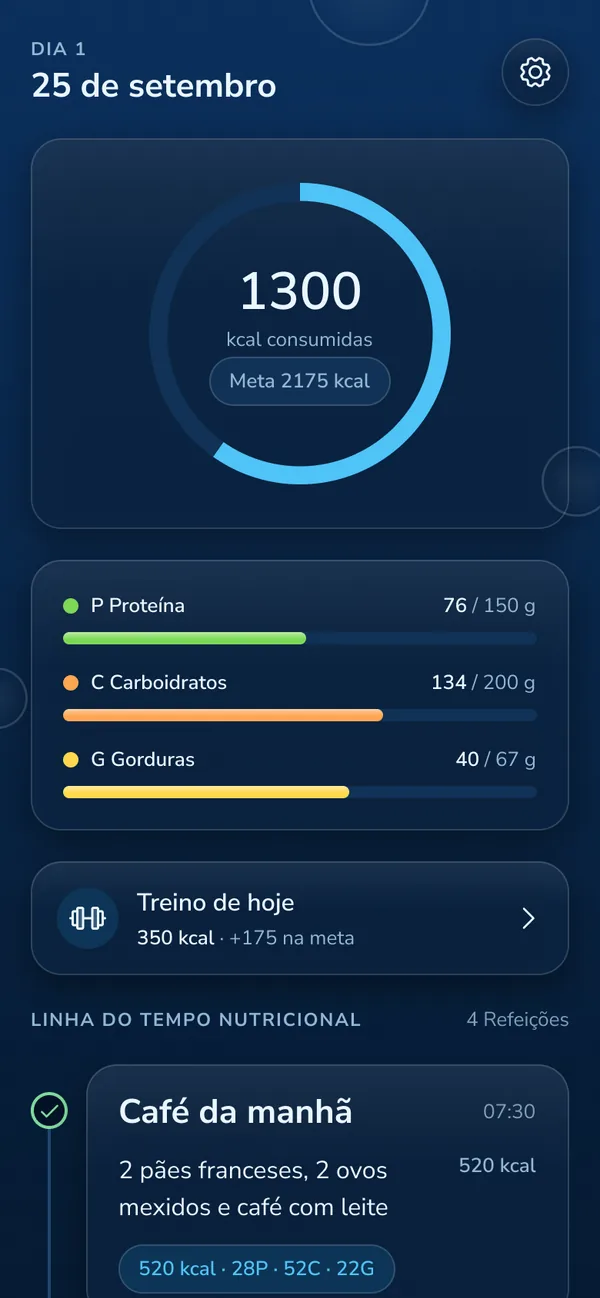
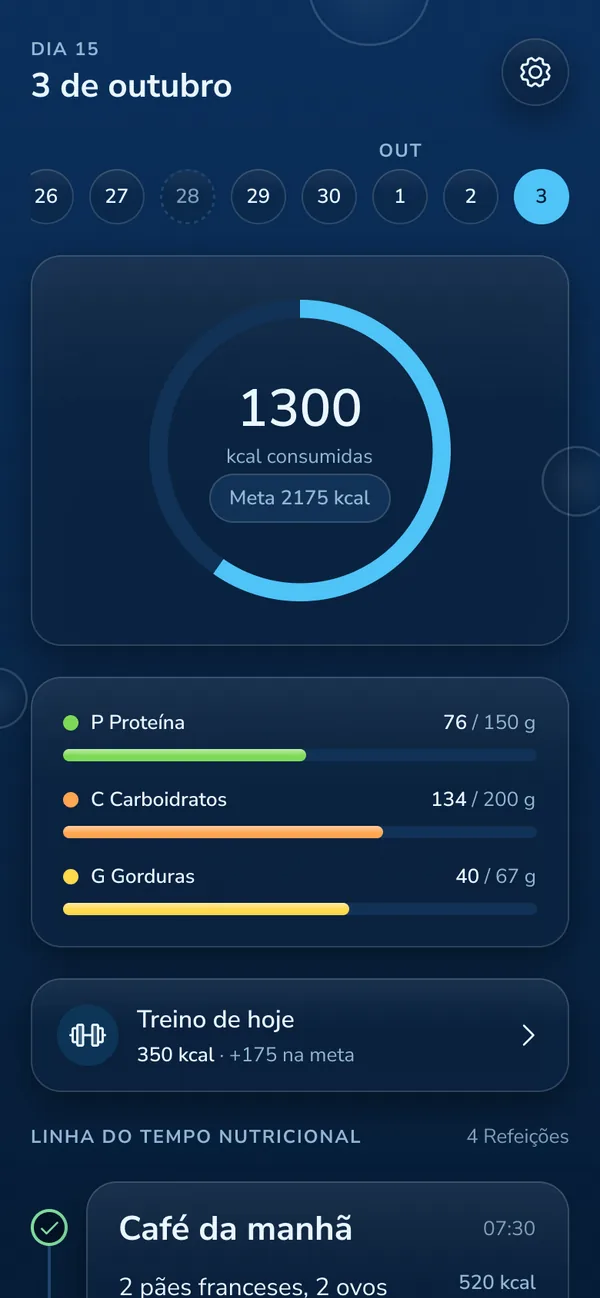
feat(web): W3 landing phones cut from ob3, the D28 home1 and chatE
The retired o1 screen leaves the landing: build-screens cuts ob3 (profile
summary) instead, home1 is re-cut after D28, o1.webp is removed and the
left phone gets its alt text. web check and the capture gate pass against
the D29 golds (land 0.93/0.47 %, landM 0.51/0.48 %, priv 0.02/0.00 %).

diff --git a/web/public/index.html b/web/public/index.html
@@ -65,8 +65,8 @@
 
       <figure class="phones" aria-label="Telas do app Fibrai">
         <div class="phone phone--side">
-          <img class="only-light" src="/img/screens/light/o1.webp" width="600" height="1298" loading="lazy" alt="Tela de início do Fibrai: definir o teto de calorias do dia">
-          <img class="only-dark" src="/img/screens/dark/o1.webp" width="600" height="1298" loading="lazy" alt="Tela de início do Fibrai: definir o teto de calorias do dia">
+          <img class="only-light" src="/img/screens/light/ob3.webp" width="600" height="1298" loading="lazy" alt="Resumo do perfil no Fibrai: teto de calorias, macros, refeições e treino">
+          <img class="only-dark" src="/img/screens/dark/ob3.webp" width="600" height="1298" loading="lazy" alt="Resumo do perfil no Fibrai: teto de calorias, macros, refeições e treino">
         </div>
         <div class="phone">
           <img class="only-light" src="/img/screens/light/home1.webp" width="600" height="1298" alt="Tela Home do Fibrai com as calorias do dia, os macros e a linha do tempo das refeições">

diff --git a/docs/site/plans/completed/w3-landing-screens-after-onboarding.md b/docs/site/plans/completed/w3-landing-screens-after-onboarding.md
@@ -1,0 +1,117 @@
+# Plan — W3 Landing phone screens after the conversational onboarding
+
+- Status: Concluído
+- Date: 09/10/2026
+- Owning context: `site`
+- Executable boundary:
+  - `web/tools/build-screens.mjs` (the `SCREENS` list and its header comment);
+  - `web/public/index.html` (the left phone: image paths and alt text);
+  - `web/public/img/screens/{light,dark}/` (generated: `ob3.webp` added, `home1.webp` re-cut, `o1.webp` removed);
+  - captures in `docs/qa/site/current/{light,dark}/{land,landM,priv}.png`;
+  - at Completion, the [site README](../../README.md) line on the generated screens and the [design plans index](../../../design/plans/README.md).
+  - No change to `web/public/css/`, the page copy, `apps/`, `server/`, `docs/qa/figma/` or hosting ([W2](../w2-landing-hosting.md)).
+- Related documentation: [site README](../../README.md), [ADR-037](../../adrs/ADR-037-landing-site.md), [W1](w1-landing-site.md) (§ 6, the screen cut), [D11](../../../design/plans/completed/d11-landing-page.md), [ADR-057](../../../produto/adrs/ADR-057-conversational-onboarding.md), [ADR-058](../../../produto/adrs/ADR-058-extras-and-history.md), the [run report of D27 and D28](../../../design/validation/2026-10-09-d27-d28.md) (follow-up 2), the [gold inventory](../../../qa/README.md#golds), [production gate](../../../content-policy/production-gate.md).
+- Prerequisites:
+  - [D27](../../../design/plans/completed/d27-conversational-onboarding.md) and [D28](../../../design/plans/completed/d28-home-extras-and-history.md) `Concluído` (met);
+  - [D29](../../../design/plans/completed/d29-landing-phone-screens.md) `Concluído`: the golds `land` and `landM` show `ob3` and the D28 `home1` in their phones.
+
+Authorization and delivery follow [SDD](../../../sdd/README.md). Approval: `Aprovo o plano docs/site/plans/w3-landing-screens-after-onboarding.md. Implemente o plano aprovado.`
+
+## Problem
+
+`web/tools/build-screens.mjs` cuts the landing phones from the app golds `o1`, `home1` and `chatE`. On 09/10/2026:
+
+| Screen | Gold | Cut WebP in `web/public/img/screens/` | `screens:check` |
+|---|---|---|---|
+| `o1` | retired by D27 (PNGs in `docs/qa/_legacy/figma-d4-onboarding/`) | still present, shows the old onboarding | crashes: `docs/qa/figma/light/o1.png` is missing |
+| `home1` | redrawn by D28 (day strip, an extra; 780 × 3280) | stale, both themes | stale |
+| `chatE` | unchanged | byte-identical to a fresh cut, both themes | fresh |
+
+So `npm --prefix web run check` fails, and the live page would show an onboarding the app no longer has.
+
+## Decision: `ob3` replaces `o1`
+
+The left phone shows `ob3`, the summary of the profile. The comparison of the candidates (`ob0`, `ob2`, `ob3`, the transitional states) is owned by [D29](../../../design/plans/completed/d29-landing-phone-screens.md#decision-which-onboarding-screen-replaces-o1); in short, `ob3` is the only onboarding screen whose top 844 pt carry the ceiling, the macros, the meals and the eat-back the landing text talks about, it does not repeat the Chat look of `chatE`, and it has no CTA that could read as a way to get the app. `home1` and `chatE` stay in their places.
+
+## Copy and layout check
+
+Checked against the landing text (`web/public/index.html`, verbatim from the D11 golds) and the new screens. Result: **no copy or layout change, no D11 follow-up**. The only Figma change the new screens need is the clone refresh of D29.
+
+| Landing element | Text | Still true after ADR-057 and ADR-058? |
+|---|---|---|
+| Hero lead | `Você define um teto de calorias para o dia…` | Yes. The app proposes the ceiling from the TMB and the user edits or sends it (ADR-057 decision 3); `ob3` shows it with a pencil. |
+| Chip | `Teto do dia em kcal` | Yes (`ob3`, Teto e macros). |
+| Chip | `Treino pode entrar no saldo` | Yes (`ob3`, Treino; the eat-back is still asked). |
+| Chip | `Texto ou foto` | Yes for the Chat; the onboarding is text only, and the chip is about meals. |
+| Passo 1 | `Um número em kcal, igual todos os dias ou diferente por dia da semana. Você escolhe quanto do treino volta…` | Yes. The ceiling mode is derived as `same` and stays editable per weekday in Config (ADR-057 decision 3). |
+| Passo 2, Passo 3 | Chat questions before the estimate; the day timeline in kcal and macros | Yes. The D28 strip and extras add to the Home; nothing in the text is contradicted. |
+| Tali band | `…Não monta dieta nem dá orientação de saúde.` | Unchanged by D27/D28. Tali now also builds the profile, which the text does not mention; adding it is a copy choice, not a correction, and is out of scope. |
+| Layout | three phones (`land`), one phone `home1` (`landM`), 300 px screens, 844 pt cut | Unchanged. `ob3` and `home1` are 780 px wide and taller than 1688 px, so the cut is the same top 1688 px. |
+
+## Scope
+
+1. **Cut list (`build-screens.mjs`):** `SCREENS = ["ob3", "home1", "chatE"]`; the header comment names the three ids. Nothing else in the tool changes (width check, 1688 px cut, 600 px WebP, 300 KB budget).
+2. **Re-cut:** `npm --prefix web run screens` writes the six WebP files. A fresh cut measured on 09/10/2026: `ob3` 39 KB light, 38 KB dark; `home1` 37 KB light, 34 KB dark; all under the budget.
+3. **Remove the retired cut:** delete `web/public/img/screens/{light,dark}/o1.webp`. The tool does not delete files it no longer writes.
+4. **Page (`index.html`, left phone only):**
+   - `src` `/img/screens/{light,dark}/ob3.webp`, same `width="600" height="1298"` and `loading="lazy"`;
+   - alt text, both images: `Resumo do perfil no Fibrai: teto de calorias, macros, refeições e treino` (pt-BR, describes the visible screen, no visible copy changes);
+   - the `home1` and `chatE` alt texts stay; `home1` still matches the redrawn screen.
+5. **Production guard (ADR-037 § 6), unchanged:** no analytics, cookies, forms, sign-up, invite, download link, store badge or APK; no third-party request; no inline script or style. The new screen has no CTA visible in the cut.
+6. **Documentation at Completion:**
+   - [site README](../../README.md): the generated `img/screens/` line names `ob3`, `home1` and `chatE`;
+   - [design plans index](../../../design/plans/README.md): the landing row of this follow-up points to the history folder.
+
+## Out of scope
+
+- Landing copy or layout, including a sentence about the guided onboarding (a D11 copy follow-up in Figma first).
+- The Figma clones and the `land`/`landM` export: [D29](../../../design/plans/completed/d29-landing-phone-screens.md).
+- Hosting and deploy ([W2](../w2-landing-hosting.md)).
+- Any way to get the app, analytics or data collection: a [production gate](../../../content-policy/production-gate.md) trigger.
+
+## Validation
+
+Cost: no model call, no emulator, no app build (Delivery pace).
+
+1. **Generated files:** `npm --prefix web run check` passes: `tokens:check`, `screens:check` (six images fresh against `ob3`, `home1`, `chatE`, each under 300 KB), `html-validate` on both pages, and the forbidden-content grep.
+2. **No dangling reference:** `rg -nw o1 web/public web/tools` finds no reference to the retired screen.
+3. **Captures:** with `npm --prefix web run preview` running, `npm --prefix web run capture` writes `land`, `landM` and `priv` in light and dark to `docs/qa/site/current/{light,dark}/` and passes the [docs/qa gate](../../../qa/README.md#gate) against the D29 golds (blurred diff ≤ 2 %, content ink 0.8×–1.25×; the up to 4 px drift of the rescaled Figma clone is accepted). Its responsive and theme checks pass. `priv` is a regression check (no phone).
+4. **Written diff list** in Results for the changed phones (left and middle of `land`, the `landM` phone), both themes.
+5. `node tools/check-docs.mjs` passes after the documentation updates.
+
+## Results
+
+Approved by the owner on 09/10/2026 ("Aprovo o plano docs/site/plans/w3-landing-screens-after-onboarding.md. Implemente o plano aprovado."). The prerequisite D29 was still pending its Figma review; the owner gave the D29 OK in the same exchange, D29 was exported and closed ([PR #237](https://github.com/nicolasteixeira3856/dieta-bot/pull/237)) before the first `web/` change.
+
+### Delivered
+
+- `web/tools/build-screens.mjs`: `SCREENS = ["ob3", "home1", "chatE"]`, header comment updated.
+- `npm --prefix web run screens`: `ob3` 39 KB Light, 38 KB Dark (new); `home1` 37 KB, 34 KB (re-cut); `chatE` 39 KB, 37 KB (byte-identical, unchanged).
+- `web/public/img/screens/{light,dark}/o1.webp` deleted.
+- `web/public/index.html`: the left phone reads `ob3.webp`, alt `Resumo do perfil no Fibrai: teto de calorias, macros, refeições e treino`. No CSS or visible copy change.
+
+### Validation
+
+Cost: no model call, no emulator, no app build.
+
+1. `npm --prefix web run check` passes: tokens, screens (six fresh images), fonts, `html-validate` (2 pages), production guard. Environment note: in this Windows worktree (`core.autocrlf=true`) `public/fonts/OFL.txt` is checked out with CRLF and the fonts check fails on it although the content is identical; the file was restored byte-for-byte from the index (no git diff) and the check passed. Not a W3 change.
+2. `grep -rnw o1 web/public web/tools`: only a binary match inside `ob3.webp`; no reference to the retired screen.
+3. `npm --prefix web run capture` against the D29 golds (blurred diff, max 2 %, ink 0.8–1.25):
+
+   | Capture | Light | Dark |
+   |---|---|---|
+   | `land` | 0.93 %, ink 1.06 | 0.47 %, ink 1.06 |
+   | `landM` | 0.51 %, ink 1.03 | 0.48 %, ink 1.08 |
+   | `priv` | 0.02 %, ink 0.93 | 0.00 %, ink 1.05 |
+
+   Responsive at 768, 1024 and 1920 px: no overflow, no overlap on both pages. Theme behavior (light default under a dark system theme, switch name and state, reload, blocked storage, head script, keyboard order and focus ring): all pass. `priv` captures have no byte diff.
+4. Written diff list (phones of `land`, `landM`, both themes, capture vs gold):
+   - `ob3` (left phone of `land`): same content, wrapping and position; the only difference is the raster drift of the rescaled Figma clone.
+   - `home1` (middle phone of `land`, the `landM` phone): same content (day strip, ring, macro rows, workout card, timeline start).
+   - `chatE` (right phone of `land`): **differs, pre-existing**. The site shows the current `chatE` app gold (the estimate names the portions, `2 pães franceses (100 g) e 2 ovos mexidos (100 g)`, and `Registrar` sits higher); the clone inside the `land` gold is older (portion names as links, no grams). The `chatE` app gold changed on 07/10/2026 (D17, D20, D21), and the web cut followed it in D21, but the landing clone was never refreshed. It is within the gate and outside this plan's boundary; refreshing the clone is a follow-up design change (the D29 recipe, one write call).
+   - Layout, tokens, type, radius, glass, phone frames, switch state and semantic colors: no difference.
+5. `node tools/check-docs.mjs` passes.
+
+### Pending
+
+- Follow-up (not in this plan): refresh the `chatE` clone in `land` (both themes) so the landing gold matches the current app gold; needs its own design plan and the owner's Figma review.

diff --git a/docs/design/plans/completed/d29-landing-phone-screens.md b/docs/design/plans/completed/d29-landing-phone-screens.md
@@ -11,7 +11,7 @@ Authorization, lifecycle, cancellation and deferral: `docs/sdd/README.md`. Appro
 
 ## Objective
 
-The phones of the landing golds hold static clones of app golds ([D11](../completed/d11-landing-page.md), refreshed by [D10](../completed/d10-fibrai-tali-rename.md) scope 7). Two of them are now out of date: the left phone of `land` shows the retired `o1`, and the middle phone of `land` and the only phone of `landM` show the `home1` from before D28. Replace those clones with the current golds so that [W3](../../../site/plans/w3-landing-screens-after-onboarding.md) can cut the same screens for `web/` and compare against `land` and `landM`.
+The phones of the landing golds hold static clones of app golds ([D11](../completed/d11-landing-page.md), refreshed by [D10](../completed/d10-fibrai-tali-rename.md) scope 7). Two of them are now out of date: the left phone of `land` shows the retired `o1`, and the middle phone of `land` and the only phone of `landM` show the `home1` from before D28. Replace those clones with the current golds so that [W3](../../../site/plans/completed/w3-landing-screens-after-onboarding.md) can cut the same screens for `web/` and compare against `land` and `landM`.
 
 ## Decision: which onboarding screen replaces `o1`
 
@@ -36,7 +36,7 @@ The `chatE` phone stays: its gold did not change (its cut WebP in `web/` is stil
 
 ## Scope
 
-1. **Discovery (read only):** read the four landing frames and list each phone clone (node, size, position, Color mode). Copy check of the landing text against the new screens; result recorded in Results. Expected: no text change (see the copy table in [W3](../../../site/plans/w3-landing-screens-after-onboarding.md#copy-and-layout-check)). A text change found here stops the plan and goes back to Planning as a D11 copy follow-up.
+1. **Discovery (read only):** read the four landing frames and list each phone clone (node, size, position, Color mode). Copy check of the landing text against the new screens; result recorded in Results. Expected: no text change (see the copy table in [W3](../../../site/plans/completed/w3-landing-screens-after-onboarding.md#copy-and-layout-check)). A text change found here stops the plan and goes back to Planning as a D11 copy follow-up.
 2. **Clones** (as in D10 scope 7):
    - replace the left-phone clone of `land` (both rows) by a fresh clone of the `ob3` Light frame, renamed `Phone · ob3`;
    - replace the `home1` clones of `land` and `landM` (both rows) by fresh clones of the `home1` Light frame;
@@ -50,7 +50,7 @@ The `chatE` phone stays: its gold did not change (its cut WebP in `web/` is stil
 
 - Landing copy, layout, phone order or count (D11). A copy change is its own plan.
 - `priv` (no phone).
-- `web/`: [W3](../../../site/plans/w3-landing-screens-after-onboarding.md) cuts the screens and compares.
+- `web/`: [W3](../../../site/plans/completed/w3-landing-screens-after-onboarding.md) cuts the screens and compares.
 - App golds: `ob3` and `home1` are read, not changed.
 
 ## Validation
@@ -79,7 +79,7 @@ Each phone is `Phone · <id>` (316 × 665, clipped) holding a `Screen` frame (30
 | `landM` Dark `107:1003` | `Phone · home1` `107:1016` | `107:1017` | `114:5188` | replace by D28 `home1` |
 | `land` both | `Phone · chatE` `106:644`, `107:953` | — | — | unchanged |
 
-Copy check: the landing text was compared with `ob3` and the D28 `home1` (table in [W3](../../../site/plans/w3-landing-screens-after-onboarding.md#copy-and-layout-check)). No text change; the plan continued.
+Copy check: the landing text was compared with `ob3` and the D28 `home1` (table in [W3](../../../site/plans/completed/w3-landing-screens-after-onboarding.md#copy-and-layout-check)). No text change; the plan continued.
 
 ### Write (one `use_figma` call)
 
@@ -103,7 +103,7 @@ Review PNGs (phone crops of `land` and `landM`, both themes, from the dry run) s
 
 - `node tools/export-figma.mjs --only land,landM`: `land` 3.839 % px changed Light, 1.156 % Dark; `landM` 5.951 % Light, 1.911 % Dark; all kept by the noise filter. Only these four PNGs have a byte diff.
 - `node tools/check-figma.mjs`: all 114 gold PNGs verified (57 dark + 57 light). Inventory unchanged.
-- Next: [W3](../../../site/plans/w3-landing-screens-after-onboarding.md) cuts the same screens for `web/` and compares against these golds.
+- Next: [W3](../../../site/plans/completed/w3-landing-screens-after-onboarding.md) cuts the same screens for `web/` and compares against these golds.
 
 ### Figma MCP calls
 

diff --git a/docs/site/README.md b/docs/site/README.md
@@ -40,7 +40,7 @@ Este contexto segue [docs/sdd/README.md](../sdd/README.md).
 - `web/public/` é o site servido, sem etapa de build: `index.html` (golds `land` e `landM`, breakpoint 768 px) e `privacidade/index.html` (gold `priv`, `noindex`). Tema claro por padrão, troca escuro/claro guardada no `localStorage`.
 - Gerados, nunca editados à mão:
   - `css/tokens.css`, a partir de `docs/design/tokens.json`;
-  - `img/screens/`, recorte das telas dos golds `o1`, `home1` e `chatE`; refaça depois de reexportar esses golds;
+  - `img/screens/`, recorte das telas dos golds `ob3`, `home1` e `chatE`; refaça depois de reexportar esses golds;
   - `img/favicon.svg` e `img/favicon-{32,180,512}.png`, o logo (semente de aveia) de `design/brand/icon.svg`; refaça depois de trocar o logo ([android README § Marca](../android/README.md#marca));
   - `fonts/`, copiadas do pacote Nunito Sans (OFL).
 - Comandos (rode `npm --prefix web ci` uma vez antes):
@@ -58,6 +58,6 @@ Este contexto segue [docs/sdd/README.md](../sdd/README.md).
 
 ### Planos
 
-- Ativos: [W2 — Landing hosting on fibrai.app](plans/w2-landing-hosting.md); [W3 — Landing phone screens after the conversational onboarding](plans/w3-landing-screens-after-onboarding.md).
+- Ativos: [W2 — Landing hosting on fibrai.app](plans/w2-landing-hosting.md).
 - Concluídos: [`plans/completed/`](plans/completed/).
 - Fora de escopo: nenhum.

diff --git a/docs/design/plans/README.md b/docs/design/plans/README.md
@@ -194,7 +194,7 @@ The landing phones are clones of app golds; D27 retired `o1` and D28 redrew `hom
 | Step | Plan | Depends on |
 |---|---|---|
 | Landing design | D29 — `ob3` and the new `home1` in the phones of `land` and `landM`, delivered ([history](completed/)) | D27, D28 |
-| Landing code | [W3](../../site/plans/w3-landing-screens-after-onboarding.md) — re-cut the phone screens in `web/` | D29 |
+| Landing code | W3 — re-cut the phone screens in `web/`, delivered ([history](../../site/plans/completed/)) | D29 |
 
 ## History
 
